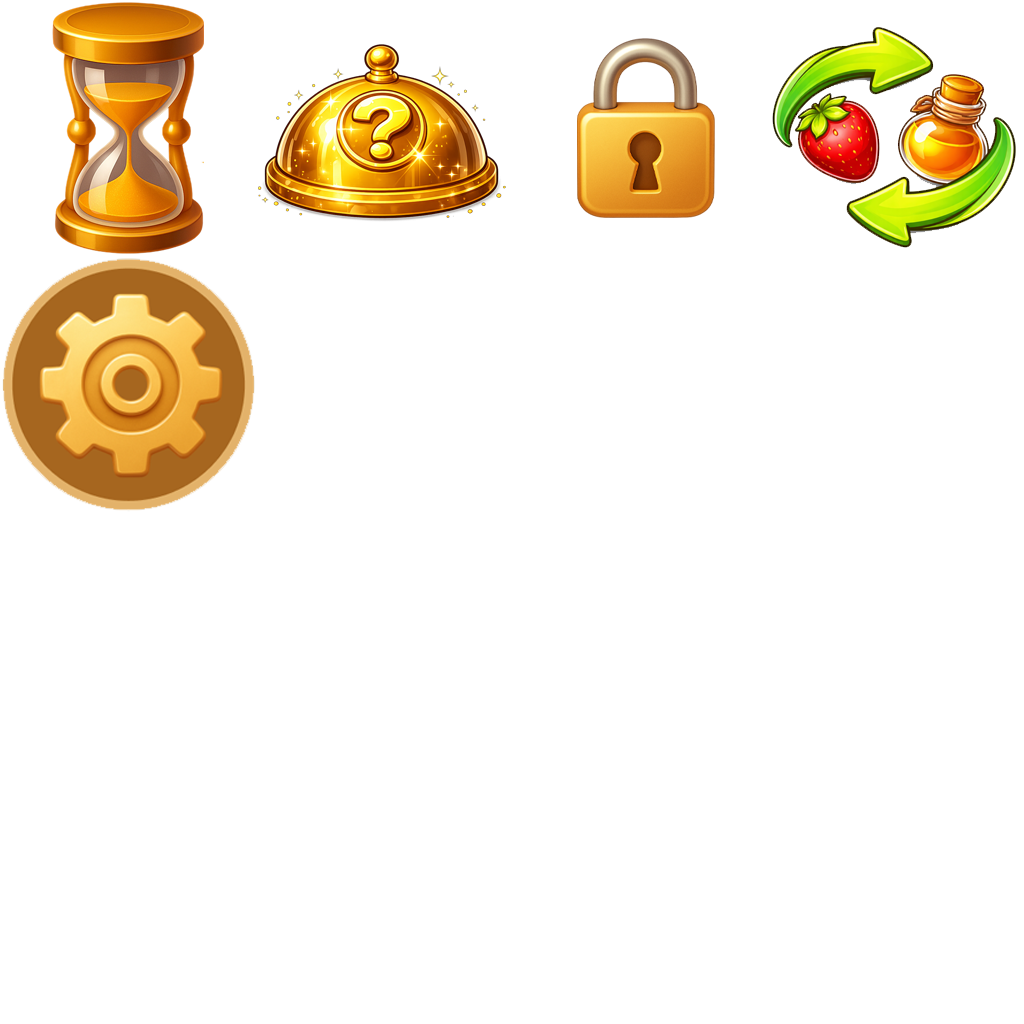
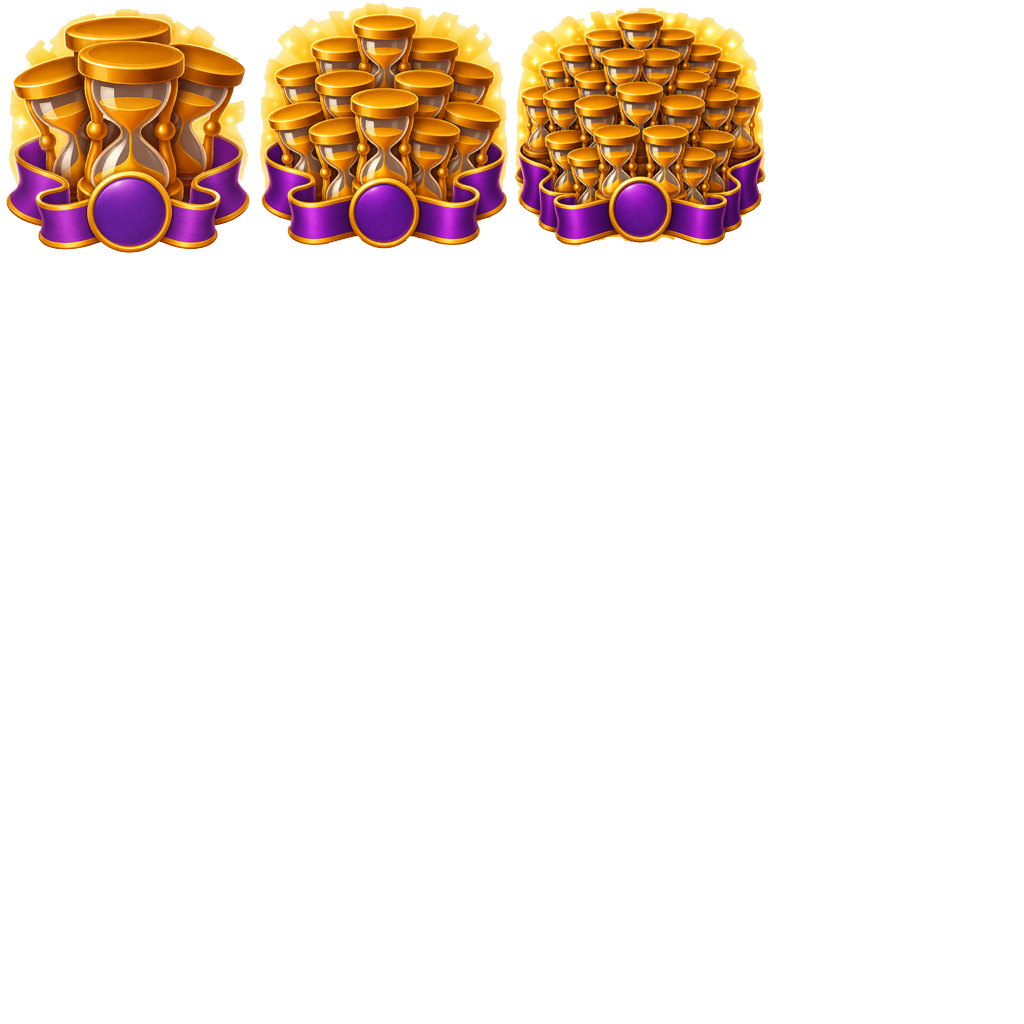
buy functionality

Changed region(s): [[0.0, 0.0, 1.0, 0.5]]

diff --git a/Assets/Scripts/Framework/Action Bar/ActionBarItem.cs b/Assets/Scripts/Framework/Action Bar/ActionBarItem.cs
@@ -8,31 +8,6 @@ using UnityEngine;
 
 namespace Game
 {
-    public interface IBuyable
-    {
-        public int GetCost();
-        void Buy(int count);
-
-        public string ActionName { get; }
-        public string ActionDescription { get; }
-        public CurrencyModel CostCurrency { get; }
-        public List<BuyBundle> BuyConfig { get; }
-
-        [Serializable]
-        public class BuyBundle
-        {
-            public int buyCount; // The count at which the buy sprite will change to the specified sprite. If the count is greater than or equal to the count threshold, the buy sprite will be used. This is useful for assigning different sprites when you buy in greater bundles.
-            public float discountPercentage; // The discount percentage to be applied when the count threshold is reached. For example, if the discount percentage is 0.1 (10%), and the original cost is 100, the cost will be reduced to 90 when the count threshold is reached. This is useful for encouraging players to buy in greater bundles by offering them a discount.
-            public Sprite BuySprite; // The sprite to be used when the count is greater than or equal to the count threshold.
-
-            public BuyBundle(int buyCount, float discountPercentage, Sprite buySprite)
-            {
-                this.buyCount = buyCount;
-                this.discountPercentage = discountPercentage;
-                BuySprite = buySprite;
-            }
-        }
-    }
 
     /// <summary>
     /// This is an action bar item which the player can click to perform an action. It can cost any currency. New action bar items can be created by extending this class. 
@@ -41,8 +16,8 @@ namespace Game
     [Serializable]
     public abstract class ActionBarItem : IBuyable
     {
-        public abstract string ActionName { get; }
-        public abstract string ActionDescription { get; }
+        public abstract string ItemName { get; }
+        public abstract string ItemDescription { get; }
         public abstract Sprite ActionBarIcon { get; }
         public abstract CurrencyModel CostCurrency { get; }
         public abstract ParticleSystem ActionSuccessParticle { get; }
@@ -61,8 +36,8 @@ namespace Game
 
         public int CurrentCount // TODO: change this to Isaveable when implementing save system
         {
-            get => PlayerPrefs.GetInt(ActionName + "_count", startingCount);
-            set => PlayerPrefs.SetInt(ActionName + "_count", value);
+            get => PlayerPrefs.GetInt(ItemName + "_count", startingCount);
+            set => PlayerPrefs.SetInt(ItemName + "_count", value);
         }
 
         public List<IBuyable.BuyBundle> buyConfig;
@@ -70,24 +45,24 @@ namespace Game
         public List<IBuyable.BuyBundle> BuyConfig => buyConfig;
         public int[] BuyChoices => new int[] { 1, 5, 25 };
 
-        public void Buy(int count)
+        public void Buy(int cost, int count)
         {
-            int cost = GetCost() * count;
+            int endCost = GetCost() * count;
             if (CostCurrency != null)
             {
-                if (CurrencyManager.Instance.GetCurrencyAmount(CostCurrency) >= cost)
+                if (CurrencyManager.Instance.GetCurrencyAmount(CostCurrency) >= endCost)
                 {
-                    CurrencyManager.Instance.AddCurrency(CostCurrency, -cost);
+                    CurrencyManager.Instance.AddCurrency(CostCurrency, -endCost);
                     CurrentCount += count;
                 }
                 else
                 {
-                    Debug.LogWarning("Not enough currency to buy " + ActionName);
+                    Debug.LogWarning("Not enough currency to buy " + ItemName);
                 }
             }
             else
             {
-                Debug.LogWarning("CostCurrency is not defined for " + ActionName);
+                Debug.LogWarning("CostCurrency is not defined for " + ItemName);
             }
         }
 
@@ -149,8 +124,8 @@ namespace Game
     {
         public int addedTime = 30;
 
-        public override string ActionName => "Add Time";
-        public override string ActionDescription => $"Adds {addedTime} seconds to the timer.";
+        public override string ItemName => "Add Time";
+        public override string ItemDescription => $"Adds {addedTime} seconds to the timer.";
         public override float BaseCost => 0;
         public override float CostIncrement => 0;
         public override float CostAcceleration => 0;
@@ -207,8 +182,8 @@ namespace Game
     public class AddMovesAction : BonusPremiumAction
     {
         public int addedMoves = 5;
-        public override string ActionName => "Add Moves";
-        public override string ActionDescription => $"Adds {addedMoves} moves to the move count.";
+        public override string ItemName => "Add Moves";
+        public override string ItemDescription => $"Adds {addedMoves} moves to the move count.";
         public override float BaseCost => 0;
         public override float CostIncrement => 0;
         public override float CostAcceleration => 0;
@@ -250,8 +225,8 @@ namespace Game
     public class ShuffleAction : BonusPremiumAction
     {
 
-        public override string ActionName => "Shuffle";
-        public override string ActionDescription => "Shuffles the board.";
+        public override string ItemName => "Shuffle";
+        public override string ItemDescription => "Shuffles the board.";
         public override Sprite ActionBarIcon => GameManager.Instance.gfxManager.shuffleActionIcon;
         public override CurrencyModel CostCurrency => GameManager.Instance.premiumCurrency;
         public override ParticleSystem ActionSuccessParticle => GameManager.Instance.gfxManager.shufflePowerupTrailParticlePrefab;
@@ -273,7 +248,7 @@ namespace Game
             if (grid == null) return;
 
             CurrentCount--;
-            EventManager.TriggerEvent(GameEvent.ACTION_SUCCESSFUL, new EventParam(paramStr: ActionName));
+            EventManager.TriggerEvent(GameEvent.ACTION_SUCCESSFUL, new EventParam(paramStr: ItemName));
 
             if (GameManager.Instance != null)
                 GameManager.Instance.StartCoroutine(ShuffleRoutine(grid));
@@ -298,8 +273,8 @@ namespace Game
     [Serializable]
     public class BombPlacementAction : BonusPremiumAction
     {
-        public override string ActionName => "Bomb Placement";
-        public override string ActionDescription => "Places a bomb on the board, then detonates it.";
+        public override string ItemName => "Bomb Placement";
+        public override string ItemDescription => "Places a bomb on the board, then detonates it.";
         public override Sprite ActionBarIcon => GameManager.Instance.gfxManager.bombElementIcon;
         public override CurrencyModel CostCurrency => GameManager.Instance.premiumCurrency;
         public override ParticleSystem ActionSuccessParticle => GameManager.Instance.gfxManager.bombPowerupTrailParticlePrefab;
@@ -339,8 +314,8 @@ namespace Game
     [Serializable]
     public class PlaceDiscoBallAction : BonusPremiumAction
     {
-        public override string ActionName => "Place Disco Ball";
-        public override string ActionDescription => "Places a disco ball on the board.";
+        public override string ItemName => "Place Disco Ball";
+        public override string ItemDescription => "Places a disco ball on the board.";
         public override Sprite ActionBarIcon => GameManager.Instance.gfxManager.discoBallElementIcon;
         public override CurrencyModel CostCurrency => GameManager.Instance.premiumCurrency;
         public override ParticleSystem ActionSuccessParticle => GameManager.Instance.gfxManager.discoBallPowerupTrailParticlePrefab;
@@ -379,8 +354,8 @@ namespace Game
     [Serializable]
     public class PlaceRocketAction : BonusPremiumAction
     {
-        public override string ActionName => "Place Rocket";
-        public override string ActionDescription => "Places a rocket on the board";
+        public override string ItemName => "Place Rocket";
+        public override string ItemDescription => "Places a rocket on the board";
         public override Sprite ActionBarIcon => GameManager.Instance.gfxManager.rocketElementIcon;
         public override CurrencyModel CostCurrency => GameManager.Instance.premiumCurrency;
         public override ParticleSystem ActionSuccessParticle => GameManager.Instance.gfxManager.rocketPowerupTrailParticlePrefab;

diff --git a/Assets/Scripts/Framework/Action Bar/IBuyable.cs b/Assets/Scripts/Framework/Action Bar/IBuyable.cs
@@ -1,0 +1,37 @@
+using System;
+using System.Collections.Generic;
+using UnityEngine;
+
+namespace Game
+{
+    public interface IBuyable
+    {
+        public int GetCost();
+        void Buy(int cost, int count);
+
+        public string ItemName { get; }
+        public string ItemDescription { get; }
+        public CurrencyModel CostCurrency { get; }
+        public List<BuyBundle> BuyConfig { get; }
+
+        [Serializable]
+        public class BuyBundle
+        {
+            public int buyCount; // The count at which the buy sprite will change to the specified sprite. If the count is greater than or equal to the count threshold, the buy sprite will be used. This is useful for assigning different sprites when you buy in greater bundles.
+            public float discountPercentage; // The discount percentage to be applied when the count threshold is reached. For example, if the discount percentage is 0.1 (10%), and the original cost is 100, the cost will be reduced to 90 when the count threshold is reached. This is useful for encouraging players to buy in greater bundles by offering them a discount.
+            public Sprite BuySprite; // The sprite to be used when the count is greater than or equal to the count threshold.
+
+            public BuyBundle(int buyCount, float discountPercentage, Sprite buySprite)
+            {
+                this.buyCount = buyCount;
+                this.discountPercentage = discountPercentage;
+                BuySprite = buySprite;
+            }
+
+            public int GetTotalCost(int baseCost)
+            {
+                return Mathf.RoundToInt((baseCost * buyCount) * (1 - discountPercentage));
+            }
+        }
+    }
+}

diff --git a/Assets/Scripts/Framework/ScreenManagement/BuyScreenPanel.cs b/Assets/Scripts/Framework/ScreenManagement/BuyScreenPanel.cs
@@ -1,4 +1,5 @@
 using System.Collections.Generic;
+using System.Linq;
 using TMPro;
 using UnityEngine;
 using UnityEngine.UI;
@@ -19,49 +20,28 @@ namespace Game
         internal IBuyable referenceBuyable;
         internal int buyAmount;
 
-        /// <summary>
-        /// Evaluates and returns the appropriate sprite based on the current state or configuration.
-        /// </summary>
-        /// <returns>A Sprite object representing the evaluated result. The returned value may be null if no suitable sprite is
-        /// determined.</returns>
-        public Sprite EvaluateSprite(IBuyable buyable, int count)
-        {
-            List<IBuyable.BuyBundle> buyspriteConfig = buyable.BuyConfig;
-
-            if (buyspriteConfig == null || buyspriteConfig.Count == 0)
-                return null;
-            // Sort the configuration by count in descending order to find the highest applicable sprite
-            buyspriteConfig.Sort((a, b) => b.buyCount.CompareTo(a.buyCount));
-            foreach (var config in buyspriteConfig)
-            {
-                if (count >= config.buyCount)
-                {
-                    return config.BuySprite;
-                }
-            }
-            return null; // Return null if no applicable sprite is found
-        }
 
         public void Init(IBuyable buyable, int count)
         {
             referenceBuyable = buyable;
             buyAmount = count;
+            var buyBundle = buyable.BuyConfig.FirstOrDefault(b => b.buyCount == count);
 
-            if (itemImage) itemImage.sprite = EvaluateSprite(buyable, count);
+            if (itemImage) itemImage.sprite = buyBundle?.BuySprite;
             if (itemCountText) itemCountText.text = string.Format(itemCountTextFormat, count);
-            if (costText) costText.text = string.Format(costTextFormat, buyable.CostCurrency.spriteIndexForUI, buyable.GetCost() * count);
+            if (costText) costText.text = string.Format(costTextFormat, buyable.CostCurrency.spriteIndexForUI, buyBundle?.GetTotalCost(buyable.GetCost()) ?? 0);
             buyButton.onClick.RemoveAllListeners();
             buyButton.onClick.AddListener(() =>
             {
-                OnBuyButtonClicked();
+                OnBuyButtonClicked(buyBundle?.GetTotalCost(buyable.GetCost()) ?? 0, count);
             });
         }
 
-        private void OnBuyButtonClicked()
+        private void OnBuyButtonClicked(int cost, int count)
         {
             if (referenceBuyable != null)
             {
-                referenceBuyable.Buy(buyAmount);
+                referenceBuyable.Buy(cost, count);
             }
         }
     }

diff --git a/Assets/Scripts/Framework/HighlightSelector.cs b/Assets/Scripts/Framework/HighlightSelector.cs
@@ -403,7 +403,7 @@ namespace Game
                     if (view == null || view.actionBarItem == null)
                         continue;
 
-                    if (view.actionBarItem.ActionName == actionName)
+                    if (view.actionBarItem.ItemName == actionName)
                         return new[] { view.useButton.gameObject };
                 }
 
@@ -428,10 +428,10 @@ namespace Game
 
             foreach (ActionBarItem item in actionBarManager.actionBarItemList)
             {
-                if (item == null || string.IsNullOrEmpty(item.ActionName))
+                if (item == null || string.IsNullOrEmpty(item.ItemName))
                     continue;
 
-                valueDropdownItems.Add(item.ActionName, item.ActionName);
+                valueDropdownItems.Add(item.ItemName, item.ItemName);
             }
             return valueDropdownItems;
         }

diff --git a/Assets/Scripts/Framework/Action Bar/ActionBarView.cs b/Assets/Scripts/Framework/Action Bar/ActionBarView.cs
@@ -58,7 +58,7 @@ namespace Game
             }
 
             EventManager.TriggerEvent(GameEvent.ACTION_BAR_ITEM_CLICKED, new EventParam(
-                paramStr: actionBarItem.ActionName
+                paramStr: actionBarItem.ItemName
             ));
         }
         private void OnBuyButtonClicked(ActionBarItem actionBarItem)
@@ -100,7 +100,7 @@ namespace Game
                 if (lockedIcon)
                     lockedIcon.enabled = actionIcon && !actionIcon.enabled;
                 if (actionText) 
-                    actionText.text = actionBarItem.ActionName;
+                    actionText.text = actionBarItem.ItemName;
                 if(buyButton)
                     buyButton.gameObject.SetActive(actionBarItem.CostDefinesBuyability && actionBarItem.CurrentCount <= 0 && actionBarItem.IsAvailable());
                 if (costText)

diff --git a/Assets/Scripts/Framework/Grid/Match3GridInputController.cs b/Assets/Scripts/Framework/Grid/Match3GridInputController.cs
@@ -466,7 +466,7 @@ namespace Game
 
             rocketAction.CurrentCount--;
             yield return StartCoroutine(rocketAction.RocketThrowAnim(match3Grid.GetCellPositionInGrid(center)));
-            EventManager.TriggerEvent(GameEvent.ACTION_SUCCESSFUL, new EventParam(paramStr: rocketAction.ActionName));
+            EventManager.TriggerEvent(GameEvent.ACTION_SUCCESSFUL, new EventParam(paramStr: rocketAction.ItemName));
             yield return StartCoroutine(match3Grid.PlaceHorizontalRocketActionAt(center));
 
             isProcessing = false;
@@ -495,7 +495,7 @@ namespace Game
 
             discoBallAction.CurrentCount--;
             yield return StartCoroutine(discoBallAction.DiscoBallThrowAnim(match3Grid.GetCellPositionInGrid(center)));
-            EventManager.TriggerEvent(GameEvent.ACTION_SUCCESSFUL, new EventParam(paramStr: discoBallAction.ActionName));
+            EventManager.TriggerEvent(GameEvent.ACTION_SUCCESSFUL, new EventParam(paramStr: discoBallAction.ItemName));
             yield return StartCoroutine(match3Grid.PlaceDiscoBallActionAt(center));
 
             isProcessing = false;

diff --git a/Assets/Scripts/Framework/ScreenManagement/BuyScreen.cs b/Assets/Scripts/Framework/ScreenManagement/BuyScreen.cs
@@ -35,8 +35,8 @@ namespace Game
                 Destroy(child.gameObject);
             }
 
-            if (itemHeaderText) itemHeaderText.text = referenceBuyable.ActionName;
-            if (itemDescriptionText) itemDescriptionText.text = referenceBuyable.ActionDescription;
+            if (itemHeaderText) itemHeaderText.text = referenceBuyable.ItemName;
+            if (itemDescriptionText) itemDescriptionText.text = referenceBuyable.ItemDescription;
 
             // Use IBuyable.BuyConfig to populate the buy screen with BuyScreenNodes.
             foreach (var buyBundle in referenceBuyable.BuyConfig)